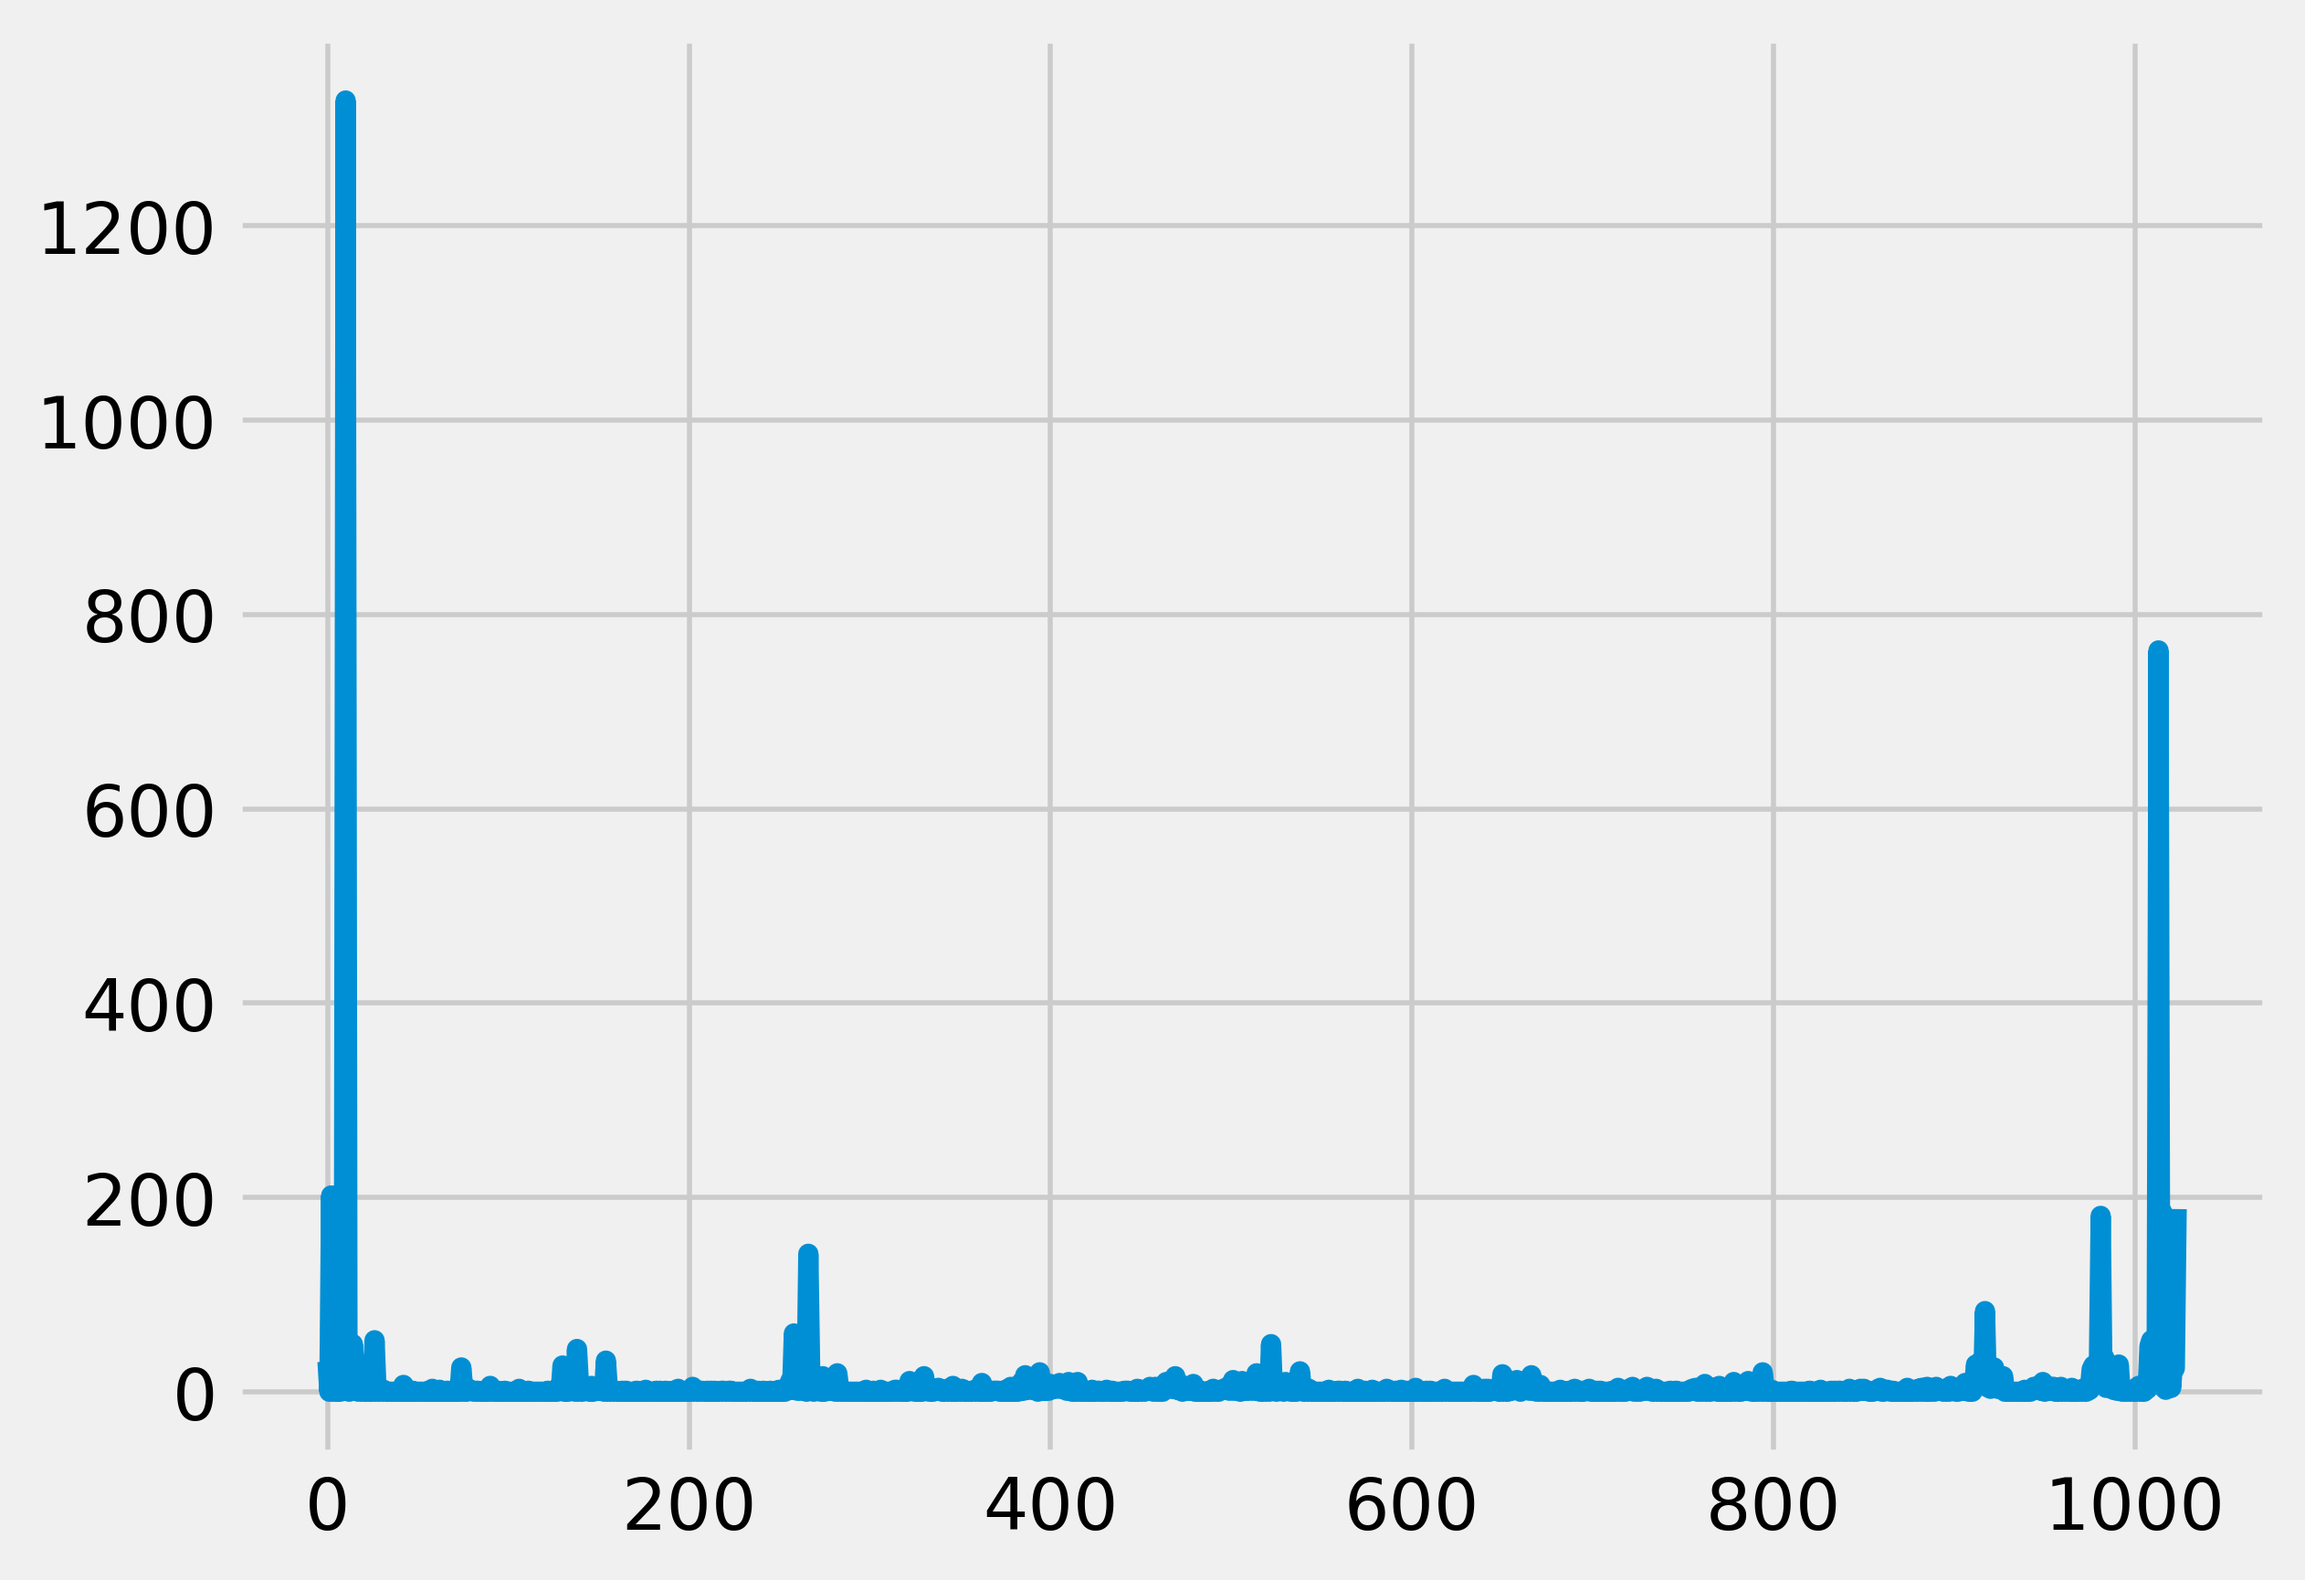
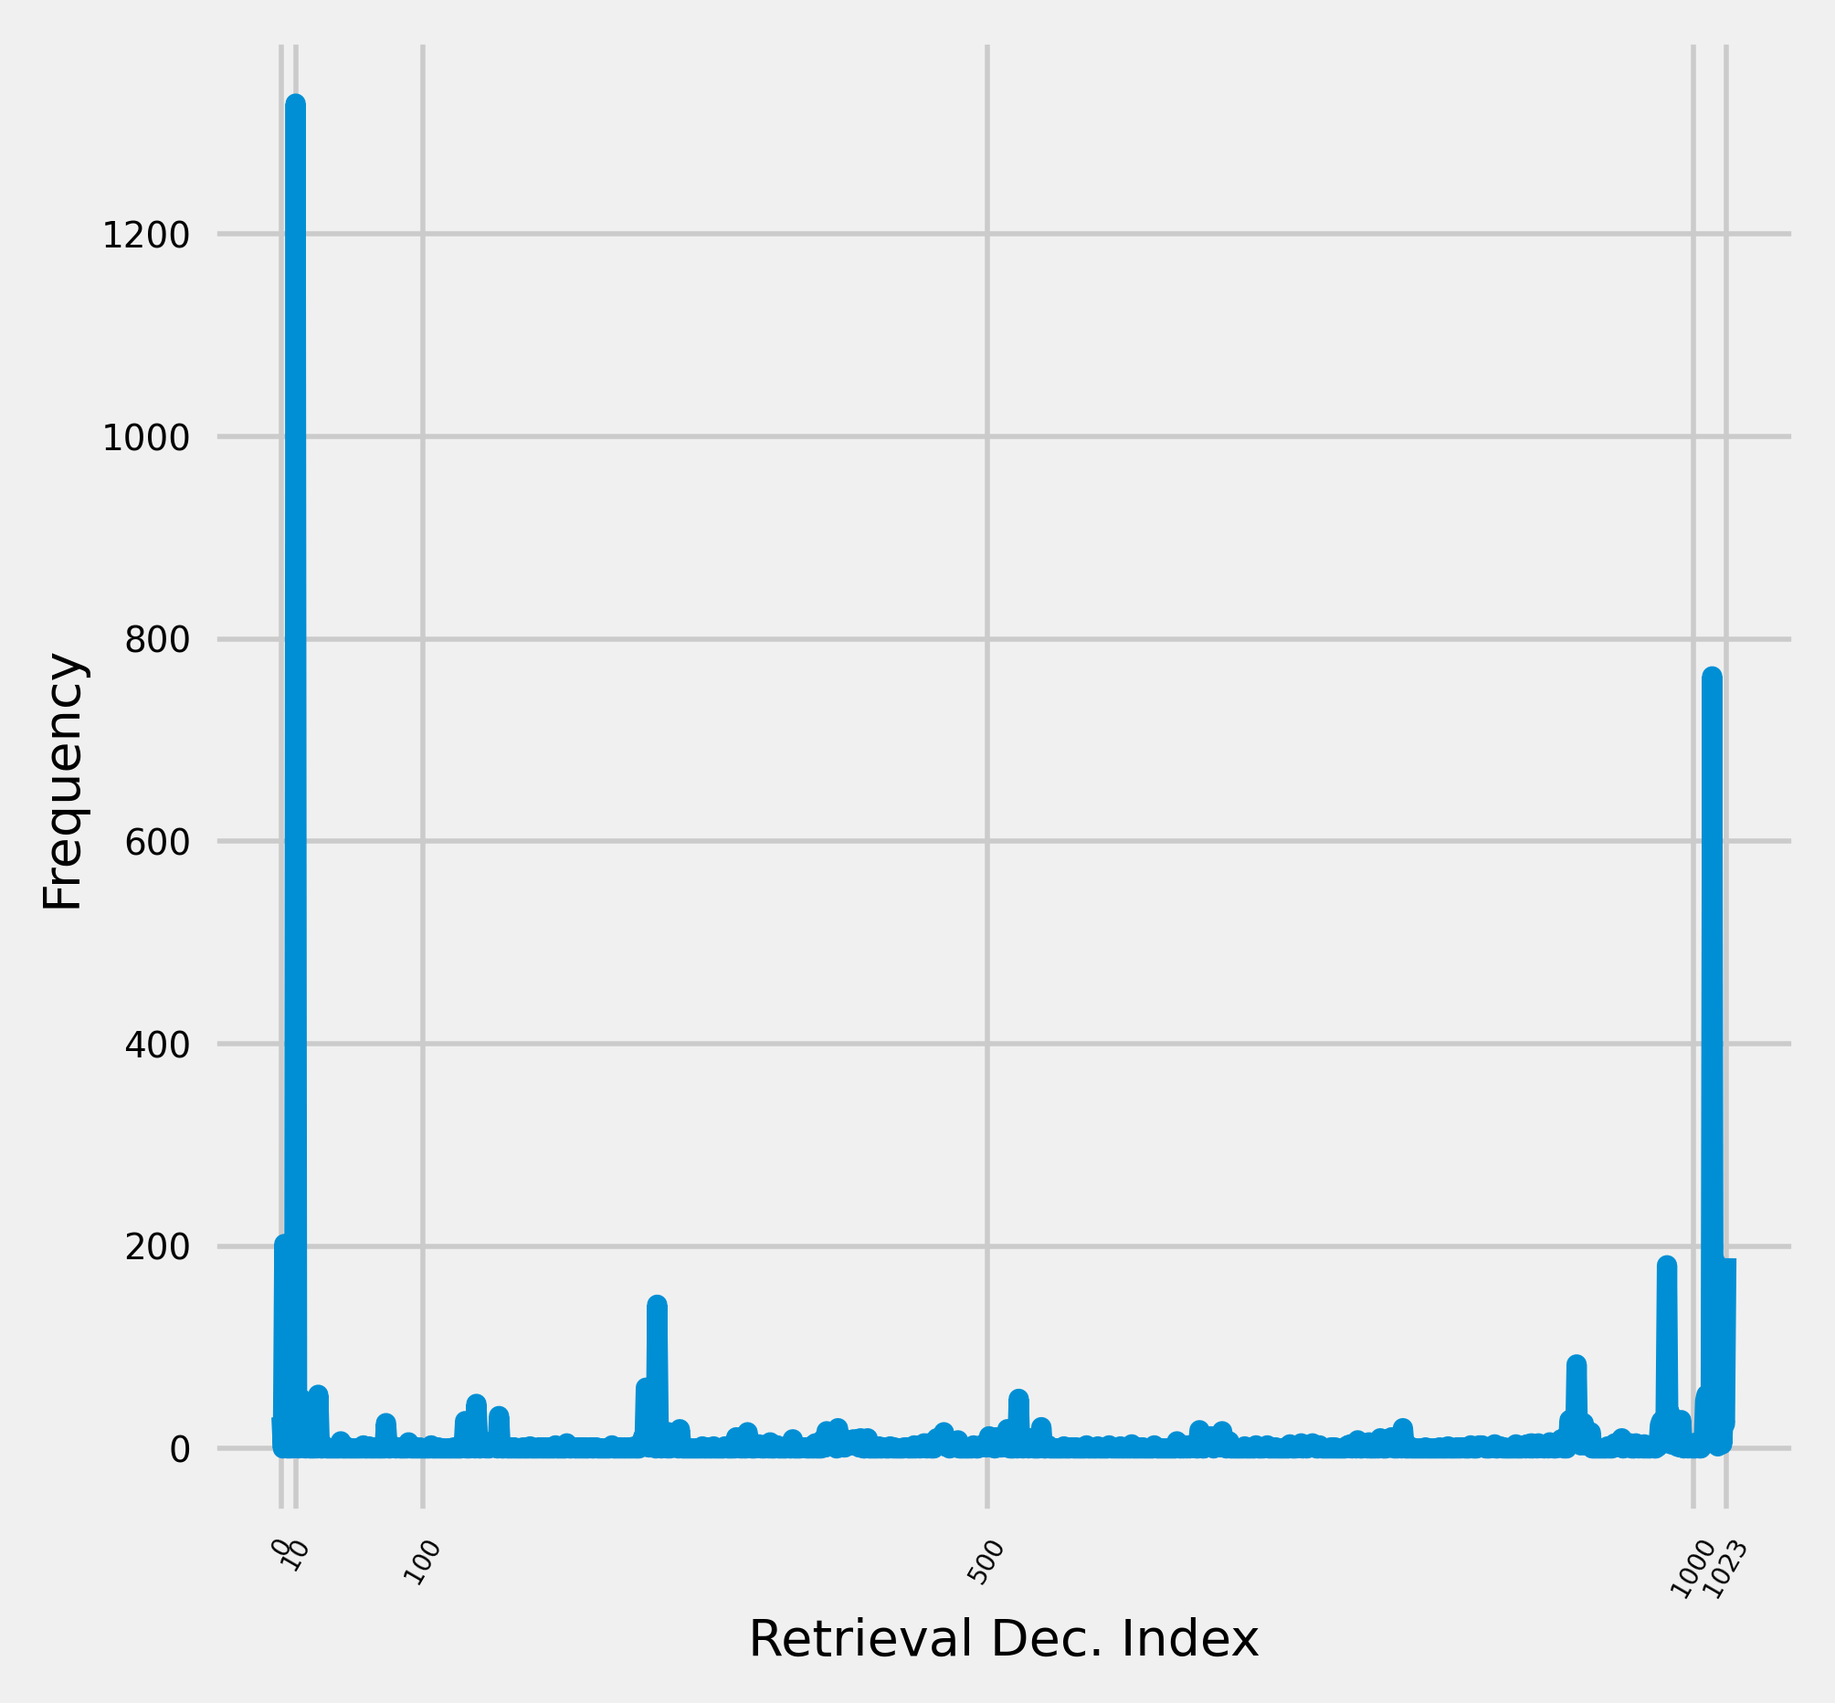
std

diff --git a/src/sims/file1.py b/src/sims/file1.py
@@ -25,8 +25,65 @@ csvs from sims in sim blocks.
 real_sim_endstates = ibl.extract_endstates(f'{data_in_dir}Obama.csv')
 real_dist_endstates = ibl.dist_of_endstates(real_sim_endstates)
 plt.style.use('fivethirtyeight')
-plt.plot(ibl.dist_of_endstates(real_sim_endstates))
+fig, axes = plt.subplots(1,1,figsize=(5,5),sharex=True,sharey=True)
+axes.plot(ibl.dist_of_endstates(real_sim_endstates))
+axes.set_ylabel('Frequency', labelpad=3,size=10)
+axes.set_xlabel('Retrieval Dec. Index', labelpad=3,size=10)
+axes.tick_params(axis='x', labelsize=5)
+axes.tick_params(axis='y', labelsize=7)
+
+#axes.set_xticks([10,1013])
+#axes.set_xticklabels(labels=['10','1013'],rotation=45)
+axes.set_xticks([0,10,100,500,1000,1023])
+axes.set_xticklabels(labels=[0,10,100,500,1000,1023],rotation=60)
 plt.savefig(f'{graph_out_dir}Fig_Gibbs_RealData.png',dpi=400,bbox_inches='tight')
+
+'''COMBINE INTO ONE PLOT'''
+
+
+
+axes[0,0].set_ylabel('Frequency (IBL)', labelpad=10,size=10)
+axes[1,0].set_ylabel('Frequency (CAN)', labelpad=10,size=10)
+axes[1,0].set_xlabel('Retrieval Dec. Index', labelpad=10,size=6)
+axes[1,1].set_xlabel('Retrieval Dec. Index', labelpad=10,size=6)
+axes[1,2].set_xlabel('Retrieval Dec. Index', labelpad=10,size=6)
+axes[1,3].set_xlabel('Retrieval Dec. Index', labelpad=10,size=6)
+
+axes[1,0].tick_params(axis='x', labelsize=5)
+axes[1,1].tick_params(axis='x', labelsize=5)
+axes[1,2].tick_params(axis='x', labelsize=5)
+axes[1,3].tick_params(axis='x', labelsize=5)
+axes[0,0].tick_params(axis='y', labelsize=7)
+axes[1,0].tick_params(axis='y', labelsize=7)
+axes[1,0].set_xticks([10,1013])
+axes[1,0].set_xticklabels(labels=['10','1013'])
+
+#CAN
+noise_list = [9,2,1,.125]
+noise_list_invert = [.11,.5,1,8]
+panel_list = ['A*','B*','C*','D*']
+counter = 0
+
+for x in range(1,2):
+    for y in range(0,4):
+        ns_fn = noise_list[counter]
+        sim_name = f'can_beta_{ns_fn}'
+        sim_endstates = ibl.extract_endstates(f'{data_out_dir}{sim_name}.csv')
+        dist_endstates = ibl.dist_of_endstates(sim_endstates)
+        axes[x,y].plot(ibl.dist_of_endstates(sim_endstates))
+        axes[x,y].set_ylim(0,100)
+        axes[x,y].text(20,85,f'Noise = {noise_list_invert[counter]}',fontsize=5)
+        axes[x,y].text(850,95,panel_list[counter],fontsize=7)
+        counter = counter+1
+        #print(x,' ',y,' ',counter)
+
+plt.subplots_adjust(wspace=.2,hspace=.2,left=0.15,bottom=0.15,right=0.90,top=0.90,)
+plt.savefig(f'{graph_out_dir}CAN_Gibbs_2X4.png',dpi=300,bbox_inches='tight')
+#plt.show()
+#EOF
+
+
+
 
 
 '''SIM RUNS'''
